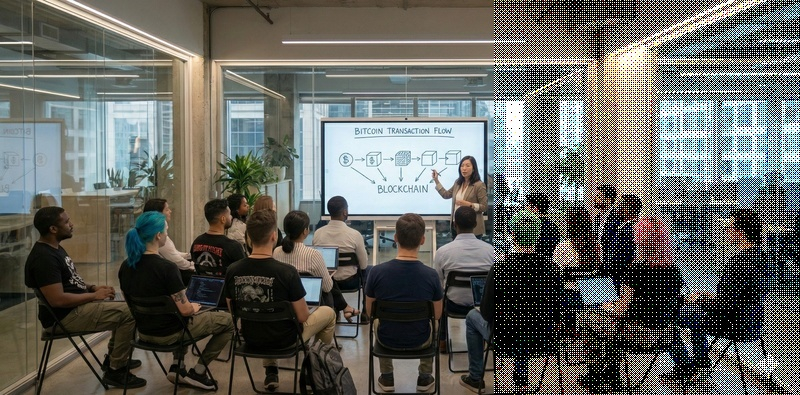
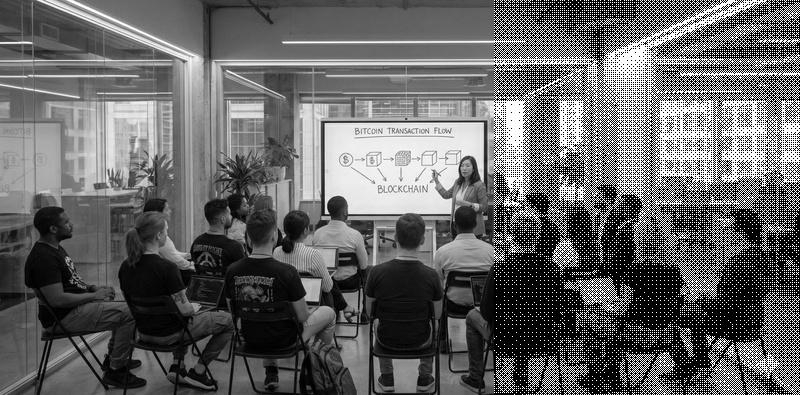
Update all examples to use grayscale, add Satoshi Mode example image, and update documentation

diff --git a/CLAUDE.md b/CLAUDE.md
@@ -8,10 +8,20 @@ This file provides guidance to Claude Code (claude.ai/code) when working with co
 
 More info is in ./README.md
 
+**Note:** Always use `--grayscale` when generating example images unless specifically instructed otherwise. This ensures a consistent and high-quality aesthetic.
+
+**Note:** Always use `--grayscale` when generating example images unless specifically instructed otherwise. This ensures a consistent and high-quality aesthetic.
+
 ## Project Structure
 
-- **main.py** - Core Python module containing the dithering logic
+- **main.py** - Wrapper script for backward compatibility
 - **dither.sh** - Shell wrapper that ensures dependencies are installed and runs the tool
+- **btcat_images/** - Main package source code
+  - **cli.py** - Command-line interface
+  - **core/** - Core logic (pipeline, utils)
+  - **processing/** - Image processing algorithms (dither, filters, masks)
+  - **tui/** - Terminal User Interface
+  - **constants.py** - Global constants
 - **pyproject.toml** - UV project configuration with dependencies (Pillow, NumPy, Click)
 
 ## Development Setup
@@ -163,7 +173,7 @@ The tool uses a mask-based architecture for maximum flexibility:
    - If `--gradient` is specified, creates angle-based gradient density mask across entire image
    - If `--fade` is specified (and no gradient), creates uniform density mask
    - Density mask probabilistically skips pixels for sparse/fade effects
-6. **Colorization**: Renders dithered pixels in Austrian flag red (#ED2939) on white background
+6. **Colorization**: Renders dithered pixels in Austrian flag red (#E3000F) on white background
 7. **Compositing**: Applies dithered regions to base image using the masks
 8. **Output**: Saved as `[original-name]-dither.[ext]` (with auto-incrementing numbers to avoid overwrites)
 

diff --git a/README.md b/README.md
@@ -47,7 +47,7 @@ Creates two wider vertical strips on the edges (20% width each) plus a circle in
 ### Example 3: Subtle Dithering with Dark Background
 
 ```bash
-./dither.sh --pos=0.5 --fade=0.4 --background=dark test-image-800px.jpg
+./dither.sh --pos=0.5 --fade=0.4 --background=dark --grayscale test-image-800px.jpg
 ```
 
 ![Fade Example](examples/example-fade.jpg)
@@ -69,8 +69,10 @@ High jitter (100) creates more randomness and organic texture. The default jitte
 ### Example 5: Satoshi Mode
 
 ```bash
-./dither.sh --circle=0.5,0.5,0.3 --satoshi-mode test-image-800px.jpg
+./dither.sh --circle=0.5,0.5,0.3 --satoshi-mode --grayscale examples/test-image-800px.jpg
 ```
+
+![Satoshi Example](examples/example-satoshi.jpg)
 
 “The network self-adjusts.”
 
@@ -104,7 +106,7 @@ Higher glitch intensity (0.2) combined with heavy 90% fade and low jitter create
 ### Example 8: Gradient Density
 
 ```bash
-./dither.sh --circle=0.25,0.5,0.2 --rect=0.5,0,1,1 --gradient=0,1.0,0.1 test-image-800px.jpg
+./dither.sh --circle=0.25,0.5,0.2 --rect=0.5,0,1,1 --gradient=0,1.0,0.1 --grayscale test-image-800px.jpg
 ```
 
 ![Gradient Example](examples/example-gradient.jpg)
